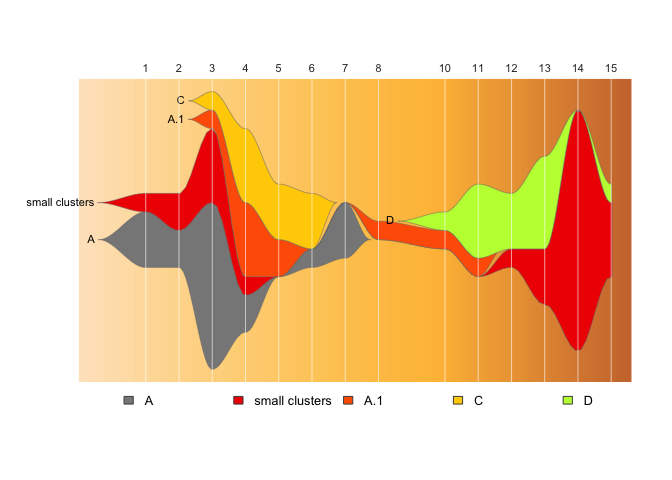
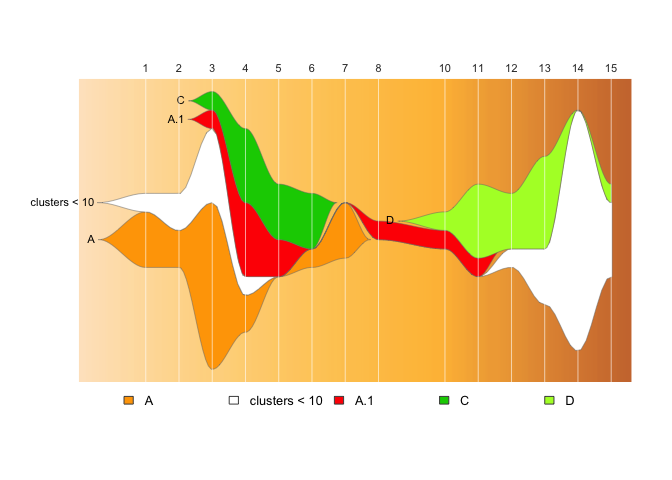
updating min_cluster_size functionality & docs

diff --git a/README.md b/README.md
@@ -1260,36 +1260,25 @@ fishplot::fishPlot(fish_list$fish, pad.left=0.1, shape="spline", vlines=vlines, 
 
 <img src="man/figures/README-unnamed-chunk-13-1.png" width="100%" />
 
-### You can automatically collapse any clusters of a minimum size in to a “small clusters” group:
+### You can automatically collapse any clusters of a minimum size into a “small clusters” group:
 
 *Note: at the moment this does not combine well with parent/child
 relationships if any child clusters are small\! (A work in
 progress…)*
 
 ``` r
-fish_list <- build_fishplot_tables(sample_df, show_labels=TRUE, min_cluster_size=10)
+#skip  passing the parent_df; this will plot as if all clusters are independent
+fish_list <- build_fishplot_tables(sample_df, colour_df=colour_df, show_labels=TRUE, min_cluster_size=10)
+#> Warning in set_fish_colours(colour_df, fishplot_names): 
+#> WARNING: existing clusters not found in colour list, setting these to white: clusters < 10
+#> Warning in set_fish_colours(colour_df, fishplot_names): 
+#> WARNING: some clusters in colour list not found in data: B, D.1, D.2, D.3, D.4
 #> The maximum sample count per timepoint (height of Y-axis) is:  15
 fishplot::fishPlot(fish_list$fish, pad.left=0.1, shape="spline", vlines=fish_list$timepoints, vlab=fish_list$timepoints)
 fishplot::drawLegend(fish_list$fish, nrow=1)
 ```
 
 <img src="man/figures/README-unnamed-chunk-14-1.png" width="100%" />
-
-``` r
-
-fish_list <- build_fishplot_tables(sample_df, colour_df=colour_df, show_labels=TRUE, min_cluster_size=5)
-#> Warning in set_fish_colours(colour_df, fishplot_names): 
-#> WARNING: existing clusters not found in colour list: small clusters
-#> Warning in set_fish_colours(colour_df, fishplot_names): 
-#> WARNING: some clusters in colour list not found in data: D.4
-#> Warning in set_fish_colours(colour_df, fishplot_names): 
-#> WARNING: Errors found in colour list; ignoring custom colour palette
-#> The maximum sample count per timepoint (height of Y-axis) is:  15
-fishplot::fishPlot(fish_list$fish, pad.left=0.1, shape="spline", vlines=fish_list$timepoints, vlab=fish_list$timepoints)
-fishplot::drawLegend(fish_list$fish, nrow=1)
-```
-
-<img src="man/figures/README-unnamed-chunk-14-2.png" width="100%" />
 
 ## Citation:
 
